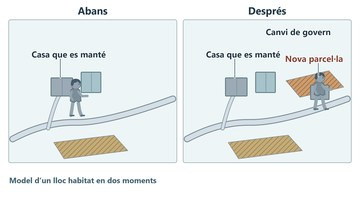
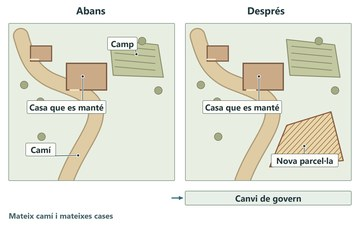
Completa les il·lustracions M038 i M039 (v0.1.96)

diff --git a/docs/continguts/terra-i-mapes.js b/docs/continguts/terra-i-mapes.js
@@ -2924,36 +2924,47 @@ window.quaderns ??= [];
     coverFigure: 'peninsula-per-segles',
     figures: [
       {
-        id: 'peninsula-per-segles', section: 'segles', name: 'Tres mapes de la península', ratio: 2280 / 1440,
+        id: 'peninsula-per-segles', section: 'segles', name: 'Tres mapes de la península', ratio: 2280 / 1515,
         width: 100, position: 'center', wrap: false, anchor: 'lead',
-        alt: 'Tres mapes de la mateixa península cap al 1070, 1190 i 1350. Les llegendes amb lletres identifiquen els governs de cada moment. El punt de Granada es manté.',
-        caption: 'Els tres mapes tenen la mateixa escala. Les lletres assenyalen llocs de referència de cada govern i les trames són orientatives. El punt fosc situa la ciutat de Granada.',
-        credit: 'Cartografia física Natural Earth i NOAA/NCEI ETOPO 2022. Selecció històrica a partir de l’Atlas Nacional de España i l’Atlas de la Historia del Territorio de Andalucía.',
+        alt: 'Tres mapes de la península amb la mateixa escala, cap al 1070, el 1190 i el 1350. El punt fosc assenyala la ciutat de Granada. Els rombes amb lletres remeten a la clau política de cada moment.',
+        caption: 'Troba la ciutat de Granada als tres mapes. Fixa’t en la data i en les lletres de cada llegenda per identificar un canvi de govern. Les trames indiquen àrees orientatives.',
+        credit: 'Costa de Natural Earth, relleu d’ETOPO 2022 i referències històriques de l’Atlas Nacional de España i de l’Atlas de la Historia del Territorio de Andalucía.',
+        src: 'illustracions/m038/peninsula-per-segles.png?v=0.1.96', thumbnail: 'illustracions/m038/miniatures/peninsula-per-segles.jpg?v=0.1.96',
+      },
+      {
+        id: 'fronteres-pactes-i-treves', section: 'exercits', name: 'Una frontera que canvia de maneres diferents', ratio: 2280 / 1480,
+        width: 100, position: 'center', wrap: false, anchor: 'lead',
         variants: {
-          pla: { src: 'illustracions/m038/peninsula-per-segles-pla.png', thumbnail: 'illustracions/m038/miniatures/peninsula-per-segles-pla.jpg' },
-          atles: { src: 'illustracions/m038/peninsula-per-segles-atles.png', thumbnail: 'illustracions/m038/miniatures/peninsula-per-segles-atles.jpg' },
+          pla: {
+            src: 'illustracions/m038/fronteres-pactes-i-treves-pla.png?v=0.1.96', thumbnail: 'illustracions/m038/miniatures/fronteres-pactes-i-treves-pla.jpg?v=0.1.96',
+            alt: 'Tres parelles de mapes representen el mateix riu amb un pont, camps i cases. En cada parella, el canvi es marca amb un límit desplaçat, dues anelles entrellaçades o un senyal de pausa.',
+            caption: 'Tres models imaginaris. Compara l’abans i el després en cada mapa. En quin cas es desplaça el límit? Quan s’acorda una pausa?',
+            credit: 'Esquema didàctic de producció pròpia.',
+          },
+          atles: {
+            src: 'illustracions/m038/fronteres-pactes-i-treves-atles.png?v=0.1.96', thumbnail: 'illustracions/m038/miniatures/fronteres-pactes-i-treves-atles.jpg?v=0.1.96',
+            alt: 'Tres vinyetes amb el mateix pont de pedra i camps treballats a les dues ribes. Un petit mapa sota cada vinyeta explica el canvi de control, la unió entre governants o la treva.',
+            caption: 'Segueix el riu i el pont per reconèixer el lloc en tres situacions possibles. Què continua igual en el paisatge mentre els mapes mostren canvis polítics?',
+            credit: 'Reconstrucció didàctica generada i retolada per a Món a mà.',
+          },
         },
       },
       {
-        id: 'fronteres-pactes-i-treves', section: 'exercits', name: 'Una frontera que canvia de maneres diferents', ratio: 2280 / 1210,
+        id: 'dos-moments-un-lloc-habitat', section: 'poblament', name: 'Qui es queda i qui hi arriba?', ratio: 2280 / 1425,
         width: 100, position: 'center', wrap: false, anchor: 'lead',
-        alt: 'Tres parelles de dibuixos conserven un riu i dos nuclis. Canvis en la trama o en els símbols representen un canvi de control, una unió i una treva.',
-        caption: 'Tres models imaginaris. Compara el control del territori, els acords entre governants i la interrupció dels enfrontaments. Què es manté al paisatge?',
-        credit: 'Dibuix didàctic de producció pròpia.',
         variants: {
-          pla: { src: 'illustracions/m038/fronteres-pactes-i-treves-pla.png', thumbnail: 'illustracions/m038/miniatures/fronteres-pactes-i-treves-pla.jpg' },
-          atles: { src: 'illustracions/m038/fronteres-pactes-i-treves-atles.png', thumbnail: 'illustracions/m038/miniatures/fronteres-pactes-i-treves-atles.jpg' },
-        },
-      },
-      {
-        id: 'dos-moments-un-lloc-habitat', section: 'poblament', name: 'Qui es queda i qui hi arriba?', ratio: 2280 / 1260,
-        width: 100, position: 'center', wrap: false, anchor: 'lead',
-        alt: 'Els dos plànols mantenen la casa, el camp i el camí. Al segon s’hi distingeixen una parcel·la nova en un altre costat i una indicació de canvi de govern.',
-        caption: 'Model d’un nucli habitat en dos moments. Una part del nucli es manté i s’hi afegeix una parcel·la. Què podria explicar una carta de poblament?',
-        credit: 'Dibuix didàctic de producció pròpia.',
-        variants: {
-          pla: { src: 'illustracions/m038/dos-moments-un-lloc-habitat-pla.png', thumbnail: 'illustracions/m038/miniatures/dos-moments-un-lloc-habitat-pla.jpg' },
-          atles: { src: 'illustracions/m038/dos-moments-un-lloc-habitat-atles.png', thumbnail: 'illustracions/m038/miniatures/dos-moments-un-lloc-habitat-atles.jpg' },
+          pla: {
+            src: 'illustracions/m038/dos-moments-un-lloc-habitat-pla.png?v=0.1.96', thumbnail: 'illustracions/m038/miniatures/dos-moments-un-lloc-habitat-pla.jpg?v=0.1.96',
+            alt: 'Dos plànols del mateix revolt mostren una casa, un camí i un camp. Al segon plànol apareix una parcel·la tramada al costat del camí, i una faixa marca el canvi de govern.',
+            caption: 'Compara la forma del camí i la posició de la casa. La trama situa la parcel·la assignada als nous habitants. Què podria explicar una carta de poblament sobre les persones que hi arriben i les terres que reben?',
+            credit: 'Esquema didàctic de producció pròpia.',
+          },
+          atles: {
+            src: 'illustracions/m038/dos-moments-un-lloc-habitat-atles.png?v=0.1.96', thumbnail: 'illustracions/m038/miniatures/dos-moments-un-lloc-habitat-atles.jpg?v=0.1.96',
+            alt: 'Dues vistes del mateix revolt. La casa de pedra i el camp del fons continuen al mateix lloc. A la segona, dues persones són al costat d’un terreny acabat de delimitar amb pedres.',
+            caption: 'Reconeix la casa de pedra i busca on treballen els nous habitants al segon moment. Què podria explicar una carta de poblament sobre les persones que hi arriben i les terres que reben?',
+            credit: 'Reconstrucció didàctica generada i retolada per a Món a mà.',
+          },
         },
       },
     ],
@@ -2973,8 +2984,8 @@ window.quaderns ??= [];
     collection: { id: 'medieval', title: 'L’edat mitjana' },
     theme: 'Història',
     figureStyles: [
-      { id: 'pla', label: 'Pla', description: 'Formes planes, traços nets i una paleta més gràfica.' },
-      { id: 'atles', label: 'Atles', description: 'Volum, textura i contrast de color.' },
+      { id: 'pla', label: 'Pla', description: 'Mapes per comparar límits, pactes i parcel·les.' },
+      { id: 'atles', label: 'Atles', description: 'Vistes del pont i del camí per reconèixer què es manté al lloc.' },
     ],
     description: 'Compara la Península dels segles XI, XII i XIV i analitza conquestes, aliances i poblament.',
     curriculum: [{ row: 'medi:passat', section: 'poblament', note: 'Compara la Península dels segles XI, XII i XIV i analitza conquestes, aliances i poblament.' }],
@@ -2999,41 +3010,53 @@ window.quaderns ??= [];
         width: 100, position: 'center', wrap: false, anchor: 'paragraph-1',
         variants: {
           pla: {
-            src: 'illustracions/m039/planta-castell-espais-i-usos-pla.png?v=0.1.88',
-            thumbnail: 'illustracions/m039/miniatures/planta-castell-espais-i-usos-pla.jpg?v=0.1.88',
+            src: 'illustracions/m039/planta-castell-espais-i-usos-pla.png?v=0.1.88', thumbnail: 'illustracions/m039/miniatures/planta-castell-espais-i-usos-pla.jpg?v=0.1.88',
             alt: 'Planta d’un castell. L’entrada dona al pati amb la torre i el magatzem al fons. Un traç discontinu delimita la cisterna sota el pati.',
-            caption: 'Planta d’un castell imaginari. La trama marca la cisterna que hi ha sota el pati.',
-            credit: 'Dibuix didàctic de producció pròpia.',
+            caption: 'Planta d’un castell imaginari. La trama marca la cisterna que hi ha sota el pati. Per on aniries de l’entrada fins al magatzem?',
+            credit: 'Esquema didàctic de producció pròpia.',
           },
           atles: {
-            src: 'illustracions/m039/planta-castell-espais-i-usos-atles.png?v=0.1.88',
-            thumbnail: 'illustracions/m039/miniatures/planta-castell-espais-i-usos-atles.jpg?v=0.1.88',
+            src: 'illustracions/m039/planta-castell-espais-i-usos-atles.png?v=0.1.88', thumbnail: 'illustracions/m039/miniatures/planta-castell-espais-i-usos-atles.jpg?v=0.1.88',
             alt: 'Tall oblic del mateix castell. Al davant i a l’esquerra es veuen la boca i el nivell de l’aigua al dipòsit sota el pati.',
-            caption: 'Reconstrucció didàctica del mateix castell. El tall permet veure la boca i el dipòsit d’aigua sota el pati.',
-            credit: 'Il·lustració generada i retolada per a Món a mà.',
+            caption: 'Reconstrucció didàctica del mateix castell imaginari. Segueix la boca fins al dipòsit. On situaries la cisterna si dibuixessis el teu castell?',
+            credit: 'Reconstrucció didàctica generada i retolada per a Món a mà.',
           },
         },
       },
       {
-        id: 'castell-carena-i-cami', section: 'situacio', name: 'Què es veu des del castell?', ratio: 2280 / 1380,
+        id: 'castell-carena-i-cami', section: 'situacio', name: 'Què es veu des del castell?', ratio: 2280 / 1570,
         width: 100, position: 'center', wrap: false, anchor: 'lead',
-        alt: 'Dues línies discontínues surten del castell. Una arriba al tram visible del camí i l’altra topa amb una carena que amaga el tram llunyà.',
-        caption: 'Tall esquemàtic d’un paisatge. Una línia arriba al camí de la vall. L’altra acaba on la carena interromp la visió.',
-        credit: 'Dibuix didàctic de producció pròpia.',
         variants: {
-          pla: { src: 'illustracions/m039/castell-carena-i-cami-pla.png', thumbnail: 'illustracions/m039/miniatures/castell-carena-i-cami-pla.jpg' },
-          atles: { src: 'illustracions/m039/castell-carena-i-cami-atles.png', thumbnail: 'illustracions/m039/miniatures/castell-carena-i-cami-atles.jpg' },
+          pla: {
+            src: 'illustracions/m039/castell-carena-i-cami-pla.png?v=0.1.96', thumbnail: 'illustracions/m039/miniatures/castell-carena-i-cami-pla.jpg?v=0.1.96',
+            alt: 'Perfil de la vall amb dues línies discontínues des del mateix punt de la torre. Una arriba al tram visible del camí. L’altra acaba en una creu al vessant de la carena.',
+            caption: 'Segueix les dues ratlles que surten de la torre en aquest esquema. Quina arriba al camí i quina troba el relleu abans?',
+            credit: 'Esquema didàctic de producció pròpia.',
+          },
+          atles: {
+            src: 'illustracions/m039/castell-carena-i-cami-atles.png?v=0.1.96', thumbnail: 'illustracions/m039/miniatures/castell-carena-i-cami-atles.jpg?v=0.1.96',
+            alt: 'Des de la torre, la carena ocupa el primer terme i una part del camí es veu més enllà. El perfil de sota indica on s’amaga el tram del camí que queda just darrere de la carena.',
+            caption: 'Mira la vall des de la torre d’un castell imaginari. Després troba al perfil el tram del camí que queda amagat darrere la carena.',
+            credit: 'Reconstrucció didàctica en tres dimensions amb les mateixes cotes que el perfil.',
+          },
         },
       },
       {
-        id: 'feines-d-un-castell', section: 'estaments', name: 'Un espai de residència i govern', ratio: 1200 / 1280,
+        id: 'feines-d-un-castell', section: 'estaments', name: 'Un espai de residència i govern', ratio: 1200 / 1165,
         width: 50, position: 'right', wrap: true, anchor: 'after',
-        alt: 'Tres vinyetes mostren una persona amb un llibre de comptes, una altra al costat d’atuells de magatzem i una altra preparant menjar vora el foc.',
-        caption: 'Tres feines possibles en alguns castells. Fixa’t en els objectes i explica què està fent cada persona.',
-        credit: 'Dibuix didàctic de producció pròpia.',
         variants: {
-          pla: { src: 'illustracions/m039/feines-d-un-castell-pla.png', thumbnail: 'illustracions/m039/miniatures/feines-d-un-castell-pla.jpg' },
-          atles: { src: 'illustracions/m039/feines-d-un-castell-atles.png', thumbnail: 'illustracions/m039/miniatures/feines-d-un-castell-atles.jpg' },
+          pla: {
+            src: 'illustracions/m039/feines-d-un-castell-pla.png?v=0.1.96', thumbnail: 'illustracions/m039/miniatures/feines-d-un-castell-pla.jpg?v=0.1.96',
+            alt: 'Tres files mostren una mà escrivint en un llibre, una mà desant un atuell en un prestatge i unes mans que treballen la massa.',
+            caption: 'Tres feines possibles en alguns castells. Busca una eina o un objecte que et permeti reconèixer cada feina.',
+            credit: 'Esquema didàctic de producció pròpia.',
+          },
+          atles: {
+            src: 'illustracions/m039/feines-d-un-castell-atles.png?v=0.1.96', thumbnail: 'illustracions/m039/miniatures/feines-d-un-castell-atles.jpg?v=0.1.96',
+            alt: 'El tall d’un edifici deixa veure tres estances comunicades per una escala. A dalt s’anota un pagament, al mig es desa un atuell i a baix es prepara menjar al costat del foc.',
+            caption: 'Tres feines possibles en alguns castells. Què et permet distingir la sala de govern, el magatzem i la cuina en aquest tall?',
+            credit: 'Reconstrucció didàctica generada i retolada per a Món a mà. Referents d’espais a Montsoriu i Miravet.',
+          },
         },
       },
     ],
@@ -3053,12 +3076,14 @@ window.quaderns ??= [];
     collection: { id: 'medieval', title: 'L’edat mitjana' },
     theme: 'Història',
     figureStyles: [
-      { id: 'pla', label: 'Pla', description: 'Formes planes, traços nets i una paleta més gràfica.' },
-      { id: 'atles', label: 'Atles', description: 'Volum, textura i contrast de color.' },
+      { id: 'pla', label: 'Pla', description: 'Planta del recinte, perfil de la vall i dibuixos d’accions.' },
+      { id: 'atles', label: 'Atles', description: 'Tall de la cisterna, vista des de la torre i interior de les dependències.' },
     ],
     description: 'Relaciona el poder de la noblesa amb la funció i els espais del castell medieval.',
     curriculum: [{ row: 'medi:passat', section: 'parts', note: 'Relaciona el poder de la noblesa amb la funció i els espais del castell medieval.' }],
     sources: [
+      ['Patrimoni Cultural · Castell de Montsoriu', 'https://patrimoni.gencat.cat/ca/coleccio/castell-de-montsoriu'],
+      ['Patrimoni Cultural · El castell de Miravet', 'https://patrimoni.gencat.cat/ca/monuments/monuments/castell-de-miravet/el-castell-de-miravet'],
       ['MHC · Edat mitjana', 'https://www.mhcat.cat/esmhc/consulta_la_coleccion/els_destacats_del_museu/els_destacats_del_museu/edat_mitjana'],
       ['MHC · La mar nostra', 'https://www.mhcat.cat/exposicions/la_memoria_d_un_pais/la_mar_nostra'],
     ],

diff --git a/docs/index.html b/docs/index.html
@@ -7,17 +7,17 @@
   <title>Món a mà · Apunts i materials per explorar el medi</title>
   <link rel="icon" type="image/png" sizes="32x32" href="assets/favicon.png?v=0.1.4">
   <link rel="apple-touch-icon" href="assets/mon-a-ma.png?v=0.1.4">
-  <link rel="stylesheet" href="estils.css?v=0.1.95">
-  <script src="interficie.js?v=0.1.95" defer></script>
-  <script src="continguts/terra-i-mapes.js?v=0.1.95" defer></script>
-  <script src="continguts/variants-terra-i-mapes.js?v=0.1.95" defer></script>
-  <script src="continguts/temes-3r-cicle-2.js?v=0.1.95" defer></script>
-  <script src="imprimible.js?v=0.1.95" defer></script>
-  <script src="preferencies.js?v=0.1.95" defer></script>
-  <script src="continguts/curriculum.js?v=0.1.95" defer></script>
-  <script src="mapa-curricular.js?v=0.1.95" defer></script>
-  <script src="incidencies.js?v=0.1.95" defer></script>
-  <script src="app.js?v=0.1.95" defer></script>
+  <link rel="stylesheet" href="estils.css?v=0.1.96">
+  <script src="interficie.js?v=0.1.96" defer></script>
+  <script src="continguts/terra-i-mapes.js?v=0.1.96" defer></script>
+  <script src="continguts/variants-terra-i-mapes.js?v=0.1.96" defer></script>
+  <script src="continguts/temes-3r-cicle-2.js?v=0.1.96" defer></script>
+  <script src="imprimible.js?v=0.1.96" defer></script>
+  <script src="preferencies.js?v=0.1.96" defer></script>
+  <script src="continguts/curriculum.js?v=0.1.96" defer></script>
+  <script src="mapa-curricular.js?v=0.1.96" defer></script>
+  <script src="incidencies.js?v=0.1.96" defer></script>
+  <script src="app.js?v=0.1.96" defer></script>
 </head>
 <body>
   <a class="skip" href="#main">Ves al contingut</a>
@@ -328,7 +328,7 @@
         <button type="button" id="reset-user" title="Restableix els ajustos de totes les fitxes, les plantilles, les col·leccions i les imatges pròpies.">Restableix preferències</button>
         <span id="reset-user-status" role="status"></span>
         <a href="https://github.com/aaronFortuno/mon-a-ma/blob/main/license.md">MIT</a>
-        <button type="button" data-dialog="release" aria-haspopup="dialog" aria-label="v0.1.95 · Historial de versions">v0.1.95</button>
+        <button type="button" data-dialog="release" aria-haspopup="dialog" aria-label="v0.1.96 · Historial de versions">v0.1.96</button>
         <button type="button" data-dialog="about" aria-haspopup="dialog" aria-label="V4V · Sobre el projecte">V4V</button>
       </nav>
     </div>
@@ -339,6 +339,11 @@
       <form method="dialog"><button type="submit" class="icon-button" aria-label="Tanca" autofocus><svg viewBox="0 0 24 24" aria-hidden="true"><path d="m6 6 12 12M18 6 6 18"/></svg></button></form>
     </div>
     <div class="dialog-content">
+      <h3>v0.1.96</h3>
+      <ul>
+        <li>Revisa l’M038 amb un mapa compartit dels tres períodes i noves lectures del paisatge en Pla i Atles.</li>
+        <li>Completa l’M039 amb la vista de la vall des de la torre, el perfil de visibilitat i el tall de les dependències del castell.</li>
+      </ul>
       <h3>v0.1.95</h3>
       <ul><li>Renova el viatge de l’àmfora d’oli de l’M031 amb una ruta esquemàtica i quatre escenes que mostren la mateixa peça.</li></ul>
       <h3>v0.1.94</h3>

diff --git a/CHANGELOG.md b/CHANGELOG.md
@@ -1,5 +1,10 @@
 # Historial de versions
 
+## 0.1.96 · 28 de novembre de 2026
+
+- Revisa l’M038 amb un mapa compartit dels tres períodes i noves lectures del paisatge en Pla i Atles.
+- Completa l’M039 amb la vista de la vall des de la torre, el perfil de visibilitat i el tall de les dependències del castell.
+
 ## 0.1.95 · 28 de novembre de 2026
 
 - Renova el viatge de l’àmfora d’oli de l’M031 amb una ruta esquemàtica i quatre escenes que mostren la mateixa peça.
